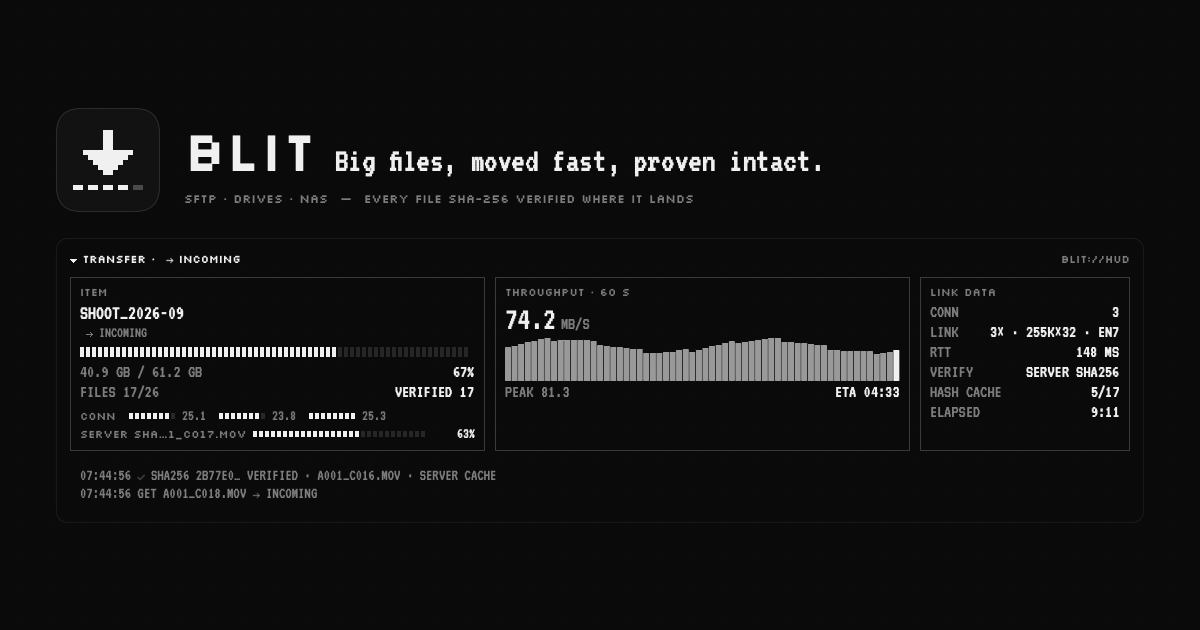
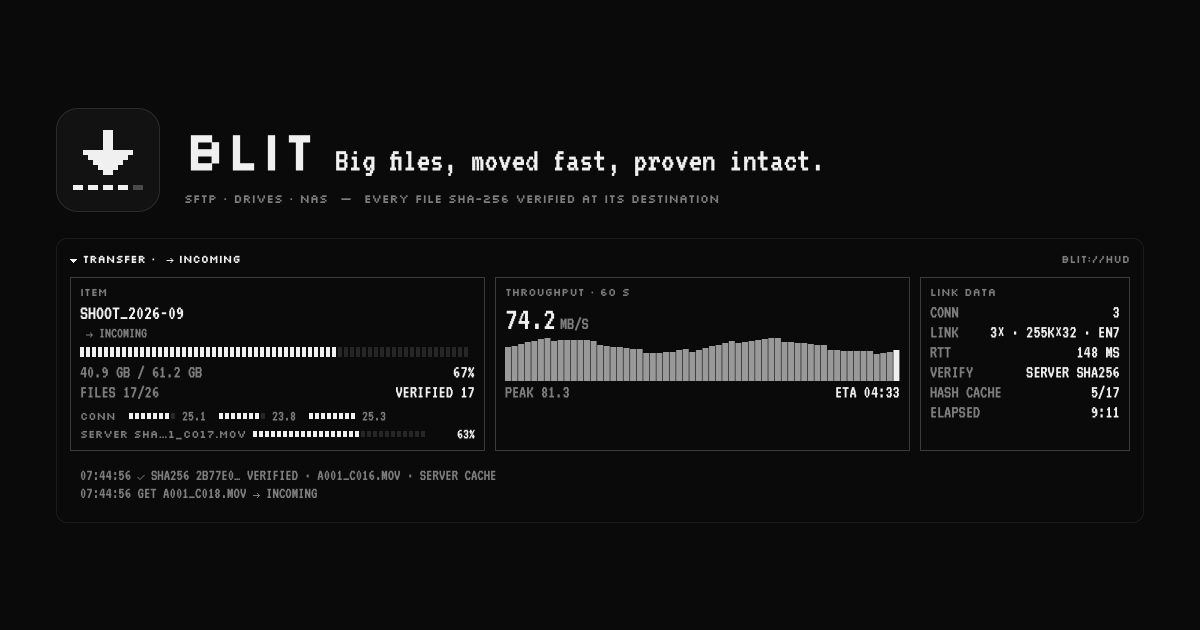
Brand images from a source: 'at its destination' in the subline, a GitHub preview
- scripts/brand/blit-brand.html draws the product image (1600×1200), the
  link-preview card (1200×630) and a new GitHub social preview (1280×640,
  inside GitHub's 80-pixel border): the icon, name, tagline and subline over
  the HUD with the simulated SHOOT_2026-09 download, laid out in the app's
  points as TransferHUD draws it. It matches the old PNGs to within about
  half a pixel; the subline now reads "VERIFIED AT ITS DESTINATION".
- scripts/make-brand.sh renders them with WebKit (scripts/brand/render.swift,
  Rune's renderer): it averages the 2× snapshot down to exact size instead of
  resampling with sips (no dark halos), and fails if the page's script
  doesn't finish. It also copies the card to launch/media.
- site/README.md: how to change them, and that a new product image goes up
  in the Lemon Squeezy product's Media section.

diff --git a/scripts/brand/blit-brand.html b/scripts/brand/blit-brand.html
@@ -1,0 +1,261 @@
+<!doctype html>
+<!-- Blit's brand images, drawn as the app draws its HUD (Blit/Views/TransferHUD.swift: HUDColor,
+     HUDFont, PixelCells, PixelHistogram, the pixel glyphs) and the site draws its icon
+     (site/index.html), at a fixed size, for scripts/make-brand.sh to render with WebKit:
+     #product, 1600×1200, Lemon Squeezy's product image (checkout, the receipt email, sharing);
+     #card, 1200×630, the site's link preview (og:image); #github, 1280×640, the repository's
+     social preview, everything inside GitHub's 80-pixel border. Icon, name, tagline, the
+     subline, then the expanded HUD with a simulated download: the product image has the tall
+     HUD (the six-line log in a panel), the card and the GitHub preview the compact one. Made-up
+     job and file names only. Lengths in the HUD are the app's points; the product image draws
+     it at 1.25× (whole-pixel cells), as the app's first render of it did. -->
+<html lang="en">
+<head>
+<meta charset="utf-8">
+<style>
+@font-face { font-family: "Silkscreen"; src: url("../../site/fonts/Silkscreen-Regular.ttf") format("truetype"); }
+@font-face { font-family: "VT323"; src: url("../../site/fonts/VT323-Regular.ttf") format("truetype"); }
+/* HUDColor in the app. */
+:root {
+  --bg: #0a0a0a; --border: #2b2b2b; --panel-line: #3b3b3b; --bright: #f0f0f0; --dim: #7d7d7d;
+  --off: #262626; --tile: #121212;
+  --label: "Silkscreen", monospace; --term: "VT323", monospace;
+}
+* { box-sizing: border-box; margin: 0; padding: 0; }
+html, body { background: var(--bg); color: var(--bright); overflow: hidden; }
+body { font-family: var(--term); -webkit-font-smoothing: subpixel-antialiased; }
+.dim { color: var(--dim); }
+
+.frame { display: flex; flex-direction: column; align-items: stretch; }
+.head { display: flex; align-items: center; }
+.tile { flex: none; display: grid; place-items: center; background: var(--tile); box-shadow: inset 0 0 0 1px var(--border); }
+.tile svg { display: block; shape-rendering: crispEdges; }
+.titles { display: flex; flex-direction: column; white-space: nowrap; }
+h1 { font-family: var(--label); font-weight: normal; }
+.sub { font-family: var(--label); color: var(--dim); white-space: pre; }
+
+/* ---------- the expanded HUD (TransferHUD), in the app's points ---------- */
+.hud-box { flex: none; }
+.hud { display: flex; flex-direction: column; gap: 10px; padding: 14px; background: var(--bg); border-radius: 12px;
+       box-shadow: inset 0 0 0 0.5px var(--border); transform-origin: 0 0; white-space: nowrap; }
+.glyph { display: inline-block; vertical-align: -1px; fill: currentColor; shape-rendering: crispEdges; }
+/* Lines with a pixel glyph in them stand a little taller in SwiftUI; its pixel-font labels sit a
+   little higher in their lines than WebKit puts them (the line-heights and paddings below). */
+.hud-head { display: flex; justify-content: space-between; font: 11px/13.1px var(--label); padding-bottom: 2px; white-space: pre; }
+.panels { display: flex; gap: 10px; }
+.panel { flex: 1 1 0; min-width: 0; display: flex; flex-direction: column; gap: 2px; padding: 8px 10px;
+         box-shadow: inset 0 0 0 1px var(--panel-line); }
+.panel.link { flex: none; width: 210px; }
+.panel h3 { font: normal 11px/13.08px var(--label); color: var(--dim); text-transform: uppercase; padding-bottom: 3px; }
+.title { font: 20px/20px var(--term); }
+.source { font: 15px/15.72px var(--term); color: var(--dim); white-space: pre; }
+.progress { padding: 4px 0; }
+.cells { display: flex; gap: 2px; overflow: hidden; }
+.cells i { flex: none; width: 4px; background: var(--off); }
+.cells i.on { background: var(--bright); }
+.progress .cells i { height: 10px; }
+.kv { display: flex; justify-content: space-between; gap: 6px; font: 18px/18px var(--term); }
+.kv > :first-child { color: var(--dim); }
+.detail { padding-top: 4px; }
+.line { display: flex; align-items: center; height: 18px; }
+.line .cells { flex: 1 1 0; min-width: 0; }
+.line .cells i { height: 6px; }
+.lbl { font: 11px/14.08px var(--label); color: var(--dim); }
+.val { flex: none; width: 40px; text-align: right; }
+.rate { display: flex; align-items: baseline; gap: 4px; }
+.rate .unit { font: 18px/18px var(--term); color: var(--dim); }
+.hist { display: block; width: 100%; }
+.log { font: 16px/18px var(--term); color: var(--dim); }
+.log div { height: 18px; overflow: hidden; text-overflow: ellipsis; }
+
+/* The tall HUD (the product image): six detail lines in the Item panel, ten Link rows, the log in a panel. */
+.full .detail { height: 112px; }
+.full .line { gap: 6px; font: 16px/18px var(--term); }
+.full .line .key { flex: none; width: 22px; color: var(--dim); }
+.full .line .name { flex: none; width: 140px; color: var(--dim); }
+.full .rate .big { font: 40px/40px var(--term); }
+.full .hist { height: 64px; }
+/* The compact HUD (the card): connections on one line, files hashing on the next, two log lines unboxed. */
+.tight .line { font: 15px/18px var(--term); }
+.tight .line.conn { gap: 10px; }
+.tight .meter { display: flex; align-items: center; gap: 4px; }
+.tight .meter .cells { flex: none; width: 52px; justify-content: center; }
+.tight .line.hash { gap: 6px; }
+.tight .rate .big { font: 32px/32px var(--term); }
+.tight .hist { height: 44px; }
+.tight .log { padding: 5.5px 10px 6.5px; }   /* 6 and 6, half a pixel up as SwiftUI drew it */
+
+/* 1600×1200: Lemon Squeezy's product image. */
+body.product { width: 1600px; height: 1200px; }
+.product .frame { padding: 194px 80px 0; gap: 34px; }
+.product .head { gap: 34px; }
+.product .tile { width: 168px; height: 168px; border-radius: 34px; }
+.product .tile svg { width: 112px; height: 112px; }
+.product .titles { gap: 10px; }
+.product h1 { font-size: 92px; line-height: 117.76px; }
+.product .tagline { font-size: 44px; line-height: 44px; }
+.product .sub { font-size: 15px; line-height: 19.2px; }
+.product .hud-box { width: 1440px; height: 576.25px; }
+.product .hud { width: 1152px; transform: scale(1.25); }
+/* The app's first render of it drew at 1.25× and snapped differently: half the header's nudge. */
+.product .hud-head { line-height: 14.1px; padding-bottom: 1px; }
+
+/* 1200×630: the link preview. The name and the tagline share a line. */
+body.card { width: 1200px; height: 630px; }
+.card .frame { padding: 108px 56px 0; gap: 26px; }
+/* 1280×640: GitHub's social preview. Its template keeps what matters 80 px in from each edge
+   (40 pt at 2×): everything here is inside 1120×480, centred, as on the card. */
+body.github { width: 1280px; height: 640px; }
+.github .frame { padding: 112px 80px 0; gap: 26px; }
+.card .head, .github .head { gap: 24px; }
+.card .tile, .github .tile { width: 104px; height: 104px; border-radius: 22px; }
+.card .tile svg, .github .tile svg { width: 70px; height: 70px; }
+.card .titles, .github .titles { gap: 6px; position: relative; top: -0.5px; }   /* half a pixel up, as on the first card */
+.row { display: flex; align-items: baseline; gap: 18px; }
+.card h1, .github h1 { font-size: 56px; line-height: 71.68px; }
+.card .tagline, .github .tagline { font-size: 34px; line-height: 34px; }
+.card .sub, .github .sub { font-size: 12px; line-height: 15.36px; }
+</style>
+</head>
+<body data-ready="no">
+<div class="frame">
+  <div class="head">
+    <div class="tile"><svg viewBox="0 0 14 14" data-art="icon"></svg></div>
+    <div class="titles">
+      <div class="row">
+        <h1>BLIT</h1>
+        <p class="tagline">Big files, moved fast, proven intact.</p>
+      </div>
+      <p class="sub">SFTP · DRIVES · NAS  —  EVERY FILE SHA-256 VERIFIED AT ITS DESTINATION</p>
+    </div>
+  </div>
+  <div class="hud-box"><div class="hud" id="hud"></div></div>
+</div>
+<script>
+const kind = { "#card": "card", "#github": "github" }[location.hash] || "product";
+document.body.className = kind;
+// The product image stacks the name, the tagline and the subline; the card puts the first two on one line.
+if (kind === "product") {
+  const titles = document.querySelector(".titles"), row = document.querySelector(".row");
+  titles.insertBefore(row.querySelector("h1"), row);
+  titles.insertBefore(row.querySelector(".tagline"), row);
+  row.remove();
+}
+
+// ---------- pixel art: the 1-bit grids the app uses ----------
+function rects(rows, colors = {}, dy = 0) {
+  let out = "";
+  rows.forEach((row, y) => [...row].forEach((ch, x) => {
+    if (ch !== ".") out += `<rect x="${x}" y="${y + dy}" width="1" height="1" fill="${colors[ch] || "currentColor"}"/>`;
+  }));
+  return out;
+}
+// The app icon (scripts/make-icon.swift, as site/index.html draws it).
+document.querySelector('[data-art="icon"]').innerHTML = rects([
+  "......##......", "......##......", "......##......", "......##......",
+  "..##########..", "...########...", "....######....", ".....####.....",
+  "......##......", "..............", "..............", "##.##.##.##.::",
+], { "#": "#f0f0f0", ":": "#4a4a4a" }, 1);
+// PixelGlyphs.swift, 7×7: Silkscreen and VT323 have no ✓ ▼ →, so the HUD draws them.
+const GLYPHS = {
+  "✓": [".......", "......#", ".....#.", "#...#..", ".#.#...", "..#....", "......."],
+  "▼": [".......", ".......", "#######", ".#####.", "..###..", "...#...", "......."],
+  "→": [".......", "....#..", ".....#.", "#######", ".....#.", "....#..", "......."],
+};
+const esc = s => s.replace(/[&<>]/g, c => ({ "&": "&amp;", "<": "&lt;", ">": "&gt;" })[c]);
+// Text with ✓ ▼ → drawn as pixel glyphs (hudText in the app).
+const hudText = s => esc(s).replace(/[✓▼→]/g, ch => `<svg class="glyph" viewBox="0 0 7 7" width="7" height="7">${rects(GLYPHS[ch])}</svg>`);
+
+// ---------- the simulated download (made-up names) ----------
+const job = {
+  transferred: 40.9, total: 61.2,   // GB
+  rate: 74.2, peak: 81.3,           // MB/s
+  history: Array.from({ length: 60 }, (_, i) => 62 + 12 * Math.sin(i / 5) + i % 7),
+  connections: [25.1, 23.8, 25.3],
+  hashing: { name: "A001_C017.MOV", fraction: 2.6 / 4.1 },
+};
+const progress = job.transferred / job.total;
+const etaSeconds = Math.floor((job.total - job.transferred) * 1e3 / job.rate);
+const eta = `${String(Math.floor(etaSeconds / 60)).padStart(2, "0")}:${String(etaSeconds % 60).padStart(2, "0")}`;
+const fastest = Math.max(...job.connections);
+// A PixelCells row: lit cells for `fraction`, as many as fit (count) or a fixed number.
+const cells = (fraction, min, count = 0) => `<span class="cells" data-fraction="${fraction}" data-min="${min}" data-count="${count}"></span>`;
+const kv = (k, v) => `<div class="kv"><span>${hudText(k)}</span><span>${hudText(v)}</span></div>`;
+const full = kind === "product";
+
+const LOG = [
+  "CONNECT · 3 CONNECTIONS · 255K×32 · EN7",
+  "RESUME A001_C015.MOV · 1.4 GB ON DISK",
+  "✓ SHA256 9F3A1C… VERIFIED · A001_C015.MOV",
+  "DOWNLOADED A001_C016.MOV · VERIFYING",
+  "✓ SHA256 2B77E0… VERIFIED · A001_C016.MOV · SERVER CACHE",
+  "GET A001_C018.MOV → INCOMING",
+];
+const pct = f => `${Math.round(f * 100)}%`;
+const detail = full
+  ? `<div class="line"><span class="lbl">CONNECTIONS</span></div>` +
+    job.connections.map((r, i) => `<div class="line"><span class="key">C${i + 1}</span>${cells(r / fastest, 8)}<span class="val">${r.toFixed(1)}</span></div>`).join("") +
+    `<div class="line"><span class="lbl">SERVER SHA256</span></div>` +
+    `<div class="line"><span class="name">${job.hashing.name}</span>${cells(job.hashing.fraction, 8)}<span class="val">${pct(job.hashing.fraction)}</span></div>`
+  : `<div class="line conn"><span class="lbl">CONN</span>` +
+    job.connections.map(r => `<span class="meter">${cells(r / fastest, 8, 8)}<span class="dim">${r.toFixed(1)}</span></span>`).join("") + `</div>` +
+    // The name truncated in the middle, as SwiftUI does where the line runs out of room.
+    `<div class="line hash"><span class="lbl">SERVER SHA…1_C017.MOV</span>${cells(job.hashing.fraction, 8)}<span class="val">${pct(job.hashing.fraction)}</span></div>`;
+const linkRows = full
+  ? [["CONN", "3"], ["LINK", "3× · 255K×32 · EN7"], ["RTT", "148 MS"], ["WINDOW", "16 MB · RCVBUF 7 MB"], ["HASH CACHE", "5/17"],
+     ["VERIFY", "SERVER SHA256"], ["EXISTS", "SKIP SAME SIZE"], ["RESUMED", "—"], ["PRESENT", "0"], ["ELAPSED", "—"]]
+  : [["CONN", "3"], ["LINK", "3× · 255K×32 · EN7"], ["RTT", "148 MS"], ["VERIFY", "SERVER SHA256"], ["HASH CACHE", "5/17"], ["ELAPSED", "9:11"]];
+const logLines = full ? LOG.map(l => `14:28:34 ${l}`) : LOG.slice(-2).map(l => `07:44:56 ${l}`);
+const log = logLines.map(l => `<div>${hudText(l)}</div>`).join("");
+
+const hud = document.getElementById("hud");
+hud.classList.add(full ? "full" : "tight");
+hud.innerHTML = `
+  <div class="hud-head"><span>${hudText("▼ TRANSFER ·  → INCOMING")}</span><span class="dim">BLIT://HUD</span></div>
+  <div class="panels">
+    <section class="panel item">
+      <h3>Item</h3>
+      <div class="title">SHOOT_2026-09</div>
+      <div class="source">${hudText(" → INCOMING")}</div>
+      <div class="progress">${cells(progress, 16)}</div>
+      ${kv(`${job.transferred} GB / ${job.total} GB`, pct(progress))}
+      ${kv("FILES 17/26", "VERIFIED 17")}
+      <div class="detail">${detail}</div>
+    </section>
+    <section class="panel thr">
+      <h3>Throughput · 60 s</h3>
+      <div class="rate"><span class="big">${job.rate.toFixed(1)}</span><span class="unit">MB/S</span></div>
+      <svg class="hist"></svg>
+      ${kv(`PEAK ${job.peak.toFixed(1)}`, `ETA ${eta}`)}
+    </section>
+    <section class="panel link">
+      <h3>Link data</h3>
+      ${linkRows.map(([k, v]) => kv(k, v)).join("")}
+    </section>
+  </div>
+  ${full ? `<section class="panel log"><h3>Log</h3>${log}</section>` : `<div class="log">${log}</div>`}`;
+
+// Laid out, with the fonts in (a label's width decides how many cells follow it): fill the cell
+// rows (as many 4-point cells as fit at a 6-point pitch, as the app's GeometryReader does) and
+// draw the histogram (PixelHistogram: 60 columns, the newest bright).
+document.fonts.ready.then(() => {
+  const scale = full ? 1.25 : 1;
+  // SwiftUI gives a text a whole number of points: so the cells after a label start on a pixel.
+  for (const el of document.querySelectorAll(".line .lbl")) el.style.width = `${Math.ceil(el.getBoundingClientRect().width / scale)}px`;
+  for (const el of document.querySelectorAll(".cells")) {
+    const count = +el.dataset.count || Math.max(+el.dataset.min, Math.floor(el.getBoundingClientRect().width / scale / 6));
+    const on = Math.floor(Math.min(1, +el.dataset.fraction) * count);
+    el.innerHTML = Array.from({ length: count }, (_, i) => `<i${i < on ? ' class="on"' : ""}></i>`).join("");
+  }
+  const hist = document.querySelector(".hist");
+  const w = hist.getBoundingClientRect().width / scale, h = full ? 64 : 44, col = w / 60;
+  hist.setAttribute("viewBox", `0 0 ${w} ${h}`);
+  hist.innerHTML = job.history.map((v, i) => {
+    const bh = Math.max(1, Math.round(v / job.peak * h));
+    return `<rect x="${i * col}" y="${h - bh}" width="${Math.max(1, col - 0.6)}" height="${bh}" fill="${i === 59 ? "#f0f0f0" : "#999"}"/>`;
+  }).join("");
+  document.body.dataset.ready = "yes";
+});
+</script>
+</body>
+</html>

diff --git a/scripts/brand/render.swift b/scripts/brand/render.swift
@@ -1,0 +1,97 @@
+// Renders a page at a fixed size to a PNG with WebKit, offscreen: for scripts/make-brand.sh.
+// Rune's renderer (Headless Brave hung at its first screenshot, 2026-10-08; WebKit is on every
+// Mac), plus two things: a Retina Mac draws the page at 2×, and this averages each 2×2 block
+// into one pixel (a resampler such as sips rings: dark halos around bright edges); and a page
+// that marks its body data-ready="no" until its script ends fails the render if it never ends.
+//
+//   swift scripts/brand/render.swift <file.html#fragment> <width> <height> <out.png>
+import AppKit
+import WebKit
+
+let args = CommandLine.arguments
+guard args.count == 5, let width = Int(args[2]), let height = Int(args[3]) else {
+    FileHandle.standardError.write(Data("usage: render.swift <file.html#fragment> <width> <height> <out.png>\n".utf8))
+    exit(2)
+}
+let parts = args[1].split(separator: "#", maxSplits: 1).map(String.init)
+let file = URL(fileURLWithPath: parts[0]).standardizedFileURL
+var components = URLComponents(url: file, resolvingAgainstBaseURL: false)!
+components.fragment = parts.count > 1 ? parts[1] : nil
+let output = URL(fileURLWithPath: args[4])
+
+func fail(_ message: String) -> Never {
+    FileHandle.standardError.write(Data("\(message)\n".utf8))
+    exit(1)
+}
+
+/// `image` at exactly width × height: each k×k block averaged when it's k times the size.
+func exactSize(_ image: CGImage, width: Int, height: Int) -> CGImage? {
+    let k = image.width / width
+    let sRGB = CGColorSpace(name: CGColorSpace.sRGB)!
+    let info = CGImageAlphaInfo.premultipliedLast.rawValue
+    guard let source = CGContext(data: nil, width: image.width, height: image.height, bitsPerComponent: 8,
+                                 bytesPerRow: image.width * 4, space: sRGB, bitmapInfo: info),
+          let target = CGContext(data: nil, width: width, height: height, bitsPerComponent: 8,
+                                 bytesPerRow: width * 4, space: sRGB, bitmapInfo: info) else { return nil }
+    source.draw(image, in: CGRect(x: 0, y: 0, width: image.width, height: image.height))
+    guard k >= 1, image.width == width * k, image.height == height * k else {
+        // Not a whole multiple: let Core Graphics scale it.
+        target.interpolationQuality = .high
+        target.draw(image, in: CGRect(x: 0, y: 0, width: width, height: height))
+        return target.makeImage()
+    }
+    let src = source.data!.assumingMemoryBound(to: UInt8.self), dst = target.data!.assumingMemoryBound(to: UInt8.self)
+    for y in 0..<height {
+        for x in 0..<width {
+            for c in 0..<4 {
+                var sum = 0
+                for dy in 0..<k { for dx in 0..<k { sum += Int(src[((y * k + dy) * image.width + x * k + dx) * 4 + c]) } }
+                dst[(y * width + x) * 4 + c] = UInt8((sum + k * k / 2) / (k * k))
+            }
+        }
+    }
+    return target.makeImage()
+}
+
+@MainActor
+final class Renderer: NSObject, WKNavigationDelegate {
+    let view: WKWebView
+    init(width: Int, height: Int) {
+        view = WKWebView(frame: NSRect(x: 0, y: 0, width: width, height: height))
+        super.init()
+        view.navigationDelegate = self
+    }
+    func webView(_ webView: WKWebView, didFinish navigation: WKNavigation!) {
+        // Fonts and the page's script: a moment after the load.
+        DispatchQueue.main.asyncAfter(deadline: .now() + 1.0) {
+            webView.evaluateJavaScript("document.body.dataset.ready") { ready, _ in
+                if ready as? String == "no" { fail("the page's script didn't finish: open it in Safari and check its console") }
+                let config = WKSnapshotConfiguration()
+                config.rect = webView.bounds
+                config.snapshotWidth = NSNumber(value: Int(webView.bounds.width))   // 1 pixel a point
+                webView.takeSnapshot(with: config) { image, error in
+                    guard let image, let tiff = image.tiffRepresentation, let rep = NSBitmapImageRep(data: tiff),
+                          let cg = rep.cgImage, let exact = exactSize(cg, width: Int(webView.bounds.width), height: Int(webView.bounds.height)),
+                          let png = NSBitmapImageRep(cgImage: exact).representation(using: .png, properties: [:]) else {
+                        fail("snapshot failed: \(String(describing: error))")
+                    }
+                    do { try png.write(to: output) } catch { fail("\(error)") }
+                    exit(0)
+                }
+            }
+        }
+    }
+    func webView(_ webView: WKWebView, didFail navigation: WKNavigation!, withError error: Error) {
+        fail("load failed: \(error)")
+    }
+}
+
+let app = NSApplication.shared
+app.setActivationPolicy(.prohibited)
+let renderer = MainActor.assumeIsolated { Renderer(width: width, height: height) }
+MainActor.assumeIsolated {
+    // The page reads its fonts from site/fonts: the repository's root readable.
+    _ = renderer.view.loadFileURL(components.url!, allowingReadAccessTo: file.deletingLastPathComponent().deletingLastPathComponent().deletingLastPathComponent())
+}
+DispatchQueue.main.asyncAfter(deadline: .now() + 30) { fail("timed out") }
+app.run()

diff --git a/site/README.md b/site/README.md
@@ -7,6 +7,7 @@ Blit's single-page website, meant for **blit.banast.as**. It's static: one `inde
 - **Selling:** $19 one-time through Lemon Squeezy (store `banastas.lemonsqueezy.com`, named banast.as, Blit's and Rune's; `blit.lemonsqueezy.com` until 2026-10-08), 7-day trial, 30-day refunds. The Price section's button is inactive ("Checkout opens soon") while the store is in test mode (test checkout: `https://banastas.lemonsqueezy.com/checkout/buy/1eb9b37f-ef04-4947-a7ab-ee13a6af1fc6`). The button opens Lemon Squeezy's checkout overlay (lemon.js, loaded only on click). To go live: set `LIVE = true` in index.html (turns on Download and Buy), replace the `data-checkout` link with the live product's overlay link (keep `?embed=1&desc=0`), and set the app's `LicenseConfig.buyURL` to the live link. Until then `?checkout=test` on the site turns the button on for testing.
 - **Legal:** `legal.html` has the license terms, privacy policy (it describes what the app actually sends: license checks to api.lemonsqueezy.com, nothing else) and refund policy. Seller: banast.as; contact: me@banast.as. Update its date when it changes.
 - **Fonts:** Silkscreen and VT323 are under the SIL Open Font License; the license texts are in `fonts/`.
+- **Brand images:** `brand/blit-product-1600x1200.png` (the Lemon Squeezy product image), `brand/blit-card-1200x630.png` (the link preview, `og:image`; `launch/media` keeps a copy) and `brand/blit-github-1280x640.png` (the repository's social preview, set in GitHub › Settings › General) are drawn by `scripts/brand/blit-brand.html`: the icon, name, tagline and subline over the HUD with a simulated download. `scripts/make-brand.sh` renders them with WebKit (`scripts/brand/render.swift`). To change one, edit the page, run the script and commit the PNGs; a new product image also has to be uploaded in the Lemon Squeezy product's Media section.
 
 Preview locally:
 
